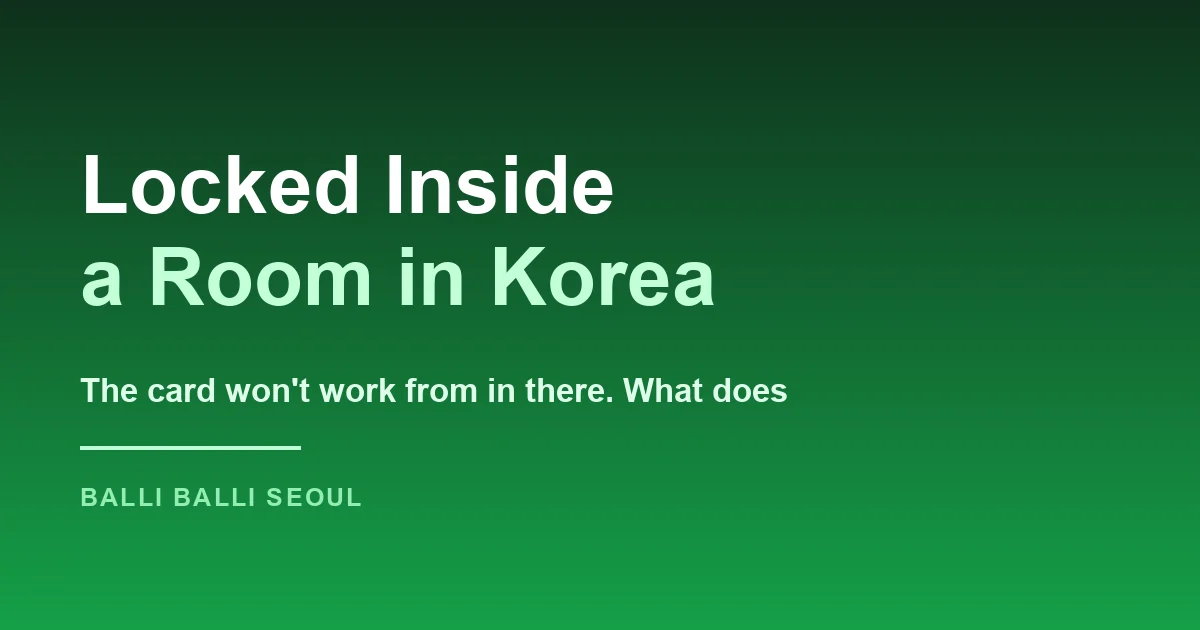
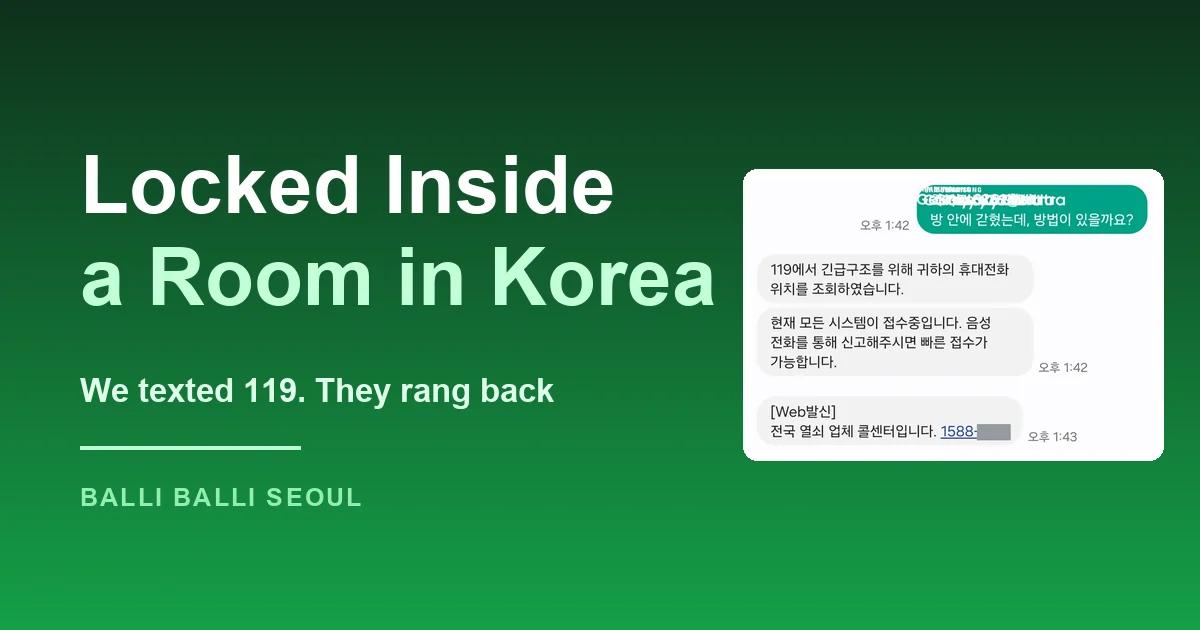
119 rang back. He is the one who stood it down.
The section said nobody was dispatched and nobody asked, and that the
fire service handed the problem to a commercial locksmith network
inside a minute. That reads the SMS timestamps as the whole story, and
they are not. A person from 119 phoned back between the message and the
1:43 reply. He told them on that call that he was standing the request
down. They then gave him the locksmith's number by voice and repeated it
twice by text so he had it written down.

So the takeaway inverts. 119 did not triage him away; he stood it down
himself, and they made sure he was left with somewhere to go. What a
reader needs to know is that texting 119 gets you a phone call — keep
the handset in your hand — not that they will turn you away.

The door-cost paragraph moves with it: he was talking to a person when
he made that call, which makes it a decision rather than a drift.

Cover now carries the screenshot beside the title, subtitled for what
actually happened.

Claude-Session: https://claude.ai/code/session_01KjcKsxJK2cUnviuE5G9suT

Changed region(s): [[0.0617, 0.2413, 0.9867, 0.754]]

diff --git a/src/content/blog/locked-inside-room-korea/index.md b/src/content/blog/locked-inside-room-korea/index.md
@@ -2,13 +2,13 @@
 title: "Locked Inside a Room in Korea: How to Get Out"
 description: "The handle broke and the door won't open from your side. When 119 is right, what it will cost you in door, and what to try before either."
 pubDate: 2026-08-31T14:06:00+09:00
-updatedDate: 2026-08-31T14:20:00+09:00
+updatedDate: 2026-08-31T14:26:00+09:00
 service: locksmith
 category: home
 tags: ["locksmith", "doors", "emergency", "119", "share-house"]
 cover: "./cover.webp"
-coverAlt: "Typographic cover reading Locked Inside a Room in Korea"
-coverCaption: "The pinhole is on the other side of the door"
+coverAlt: "The article title beside a screenshot of a text conversation with 119, with a locksmith's number partly redacted"
+coverCaption: "We texted 119. They rang back"
 draft: false
 ---
 
@@ -65,9 +65,10 @@ they never think to ask.
 
 ![A text conversation with 119: a message reading "I am shut in a room, is there a way out?", an automatic reply saying 119 has queried the phone's location, a second saying a voice call would be faster, and two messages giving a national locksmith call centre number](./119-text-locksmith-referral.webp)
 
-*119, Saturday 29 August. The message went out at 1:42pm. The locksmith's number came
-back at 1:43. We have removed the last four digits — it is not a company we know
-anything about, and we do not pass on referrals we have not checked.*
+*119, Saturday 29 August. The message went out at 1:42pm. Between it and the 1:43
+reply, a person from 119 rang back. We have removed the locksmith's last four digits —
+it is not a company we know anything about, and we do not pass on referrals we have not
+checked.*
 
 **Texting 119 works.** It is the channel for when you cannot speak — or, as here, when
 you can speak perfectly well and are too rattled to want to.
@@ -83,16 +84,25 @@ to send the message.
 currently taking reports; reporting by voice call allows faster intake.* Text is the
 fallback, not the front door. If you can talk, talk.
 
-**And then, sixty seconds later, a locksmith's phone number.** Twice, at 1:43 and 1:44.
+**And then the phone rang.** This is the part the screenshot cannot show, and it is the
+part that matters most: **a person from 119 called back**, within a minute of the
+message.
 
-That last one is what this section exists for. Nobody was dispatched. Nobody asked about
-the door. The fire service read *I am shut in a room*, found nobody in danger in it, and
-handed the problem to the commercial locksmith network inside a minute.
+On that call he told them he was **standing the request down.** Nobody made that
+decision for him and nobody argued him out of it. He was safe, and he said so.
 
-**That is the system working correctly**, and it is much better to understand it before
-you are sitting on the floor of a bedroom than during. 119 is triaging. A well person
-behind a stuck door is not what they are for, and the number they send back is the
-polite version of saying so.
+**And they helped anyway.** Having just been told they were not needed, they gave him
+the number of a national locksmith call centre over the phone — and then sent it by
+text, twice, at 1:43 and 1:44, so he had it in writing rather than scribbled on whatever
+was to hand.
+
+That is the opposite of what people expect from an emergency number they have decided
+not to bother. **119 did not brush him off. He stood it down, and they made sure he was
+left with somewhere to go.**
+
+So the useful thing to know is not that 119 will turn you away. It is this: **text them
+and they will ring you, so keep the phone in your hand.** What happens next is a
+conversation with a person, and you are part of it.
 
 Had it been a real emergency they would have come, and they would have opened the door
 however they needed to — which for a hollow wooden leaf in a wooden frame means breaking
@@ -101,11 +111,11 @@ a carpenter.
 
 So the money is real, and the decision about it is yours.
 
-Here is the trap in it, from the person it happened to. He sent the message, read the
-reply, and then **let it go — not because he had weighed the risk and found it low, but
-because he did not want to pay for his own door.** He was safe, and letting it go
-happened to be the right call. That is not the reasoning he used. The reasoning he used
-was that doors are expensive.
+Here is the trap in it, from the person it happened to. He had the fire service on the
+phone and told them to stand down — **not because he had weighed the risk and found it
+low, but because he did not want to pay for his own door.** He was safe, and standing it
+down happened to be the right call. That is not the reasoning he used. The reasoning he
+used was that doors are expensive.
 
 Everybody does that arithmetic. You will do it too. The problem is that it is the exact
 same sentence in a person's head whether there is smoke under the door or not, and it
